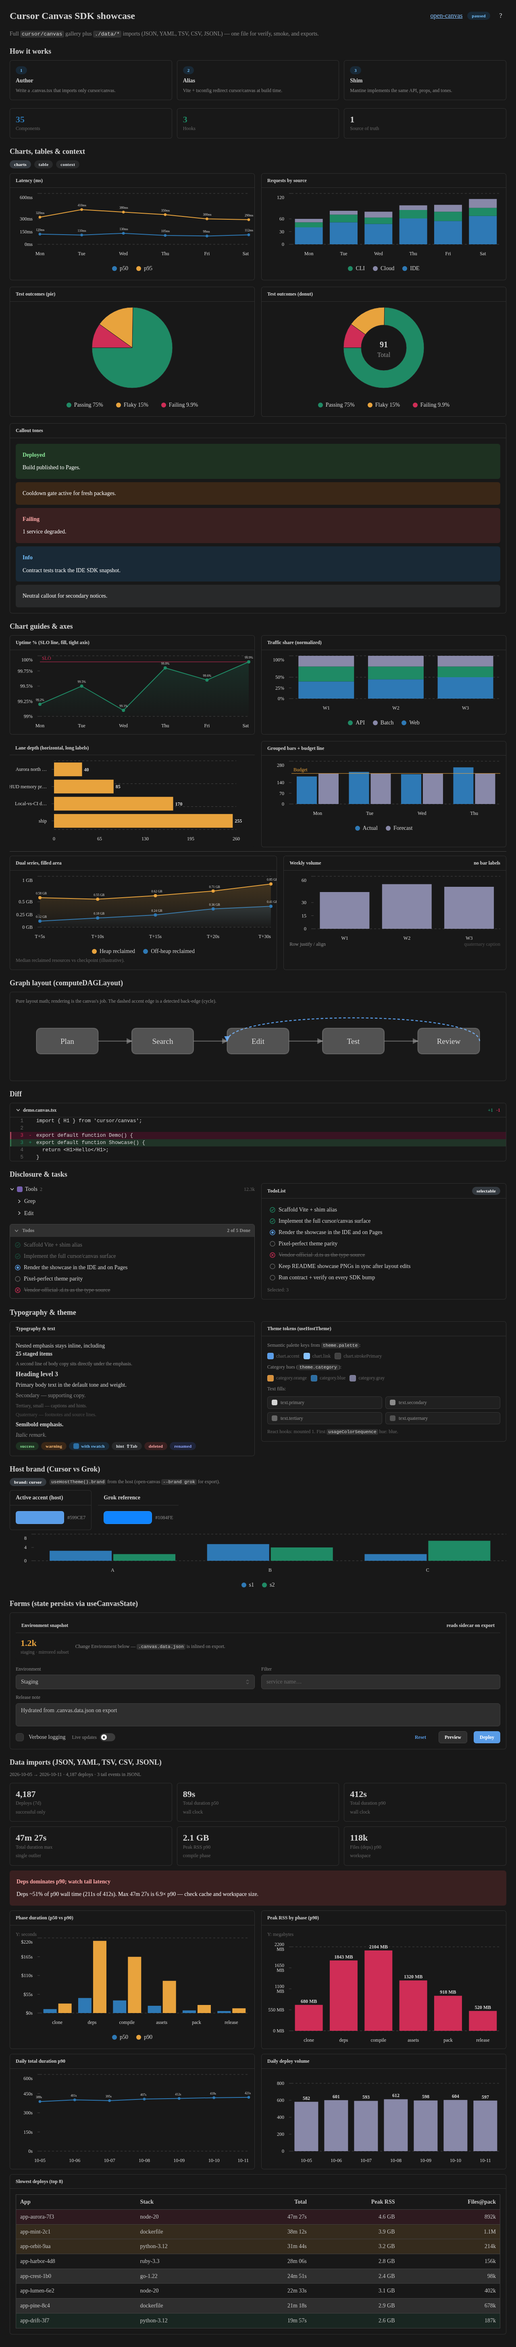
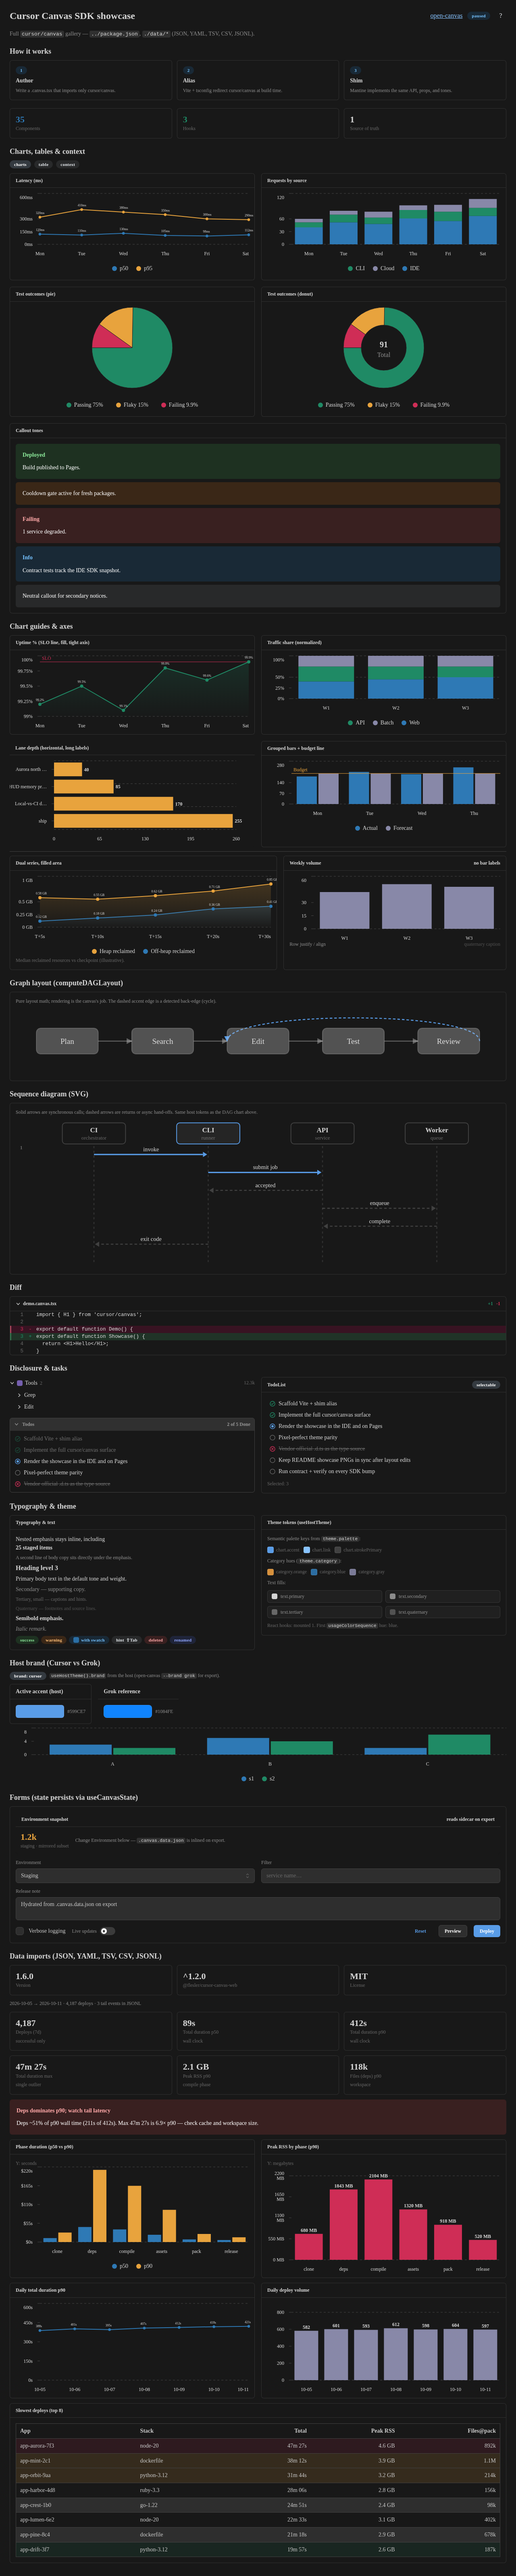
Sync demo showcase sequence diagram and refresh README screenshots.

diff --git a/.cursor/canvases/demo.canvas.tsx b/.cursor/canvases/demo.canvas.tsx
@@ -10,11 +10,19 @@ if (typeof localStorage !== 'undefined') {
 	}
 }
 
+const pkg = {"name":"@flesler/open-canvas","version":"1.6.0","description":"Agent-friendly canvas visuals (charts, tables, UI) from .canvas.tsx to HTML, PNG, PDF, JPG, or IDE-ready canvas","type":"module","license":"MIT","repository":"github:flesler/open-canvas","bin":{"open-canvas":"./bin/open-canvas.js"},"engines":{"node":">=22.12.0","npm":">=10.0.0"},"scripts":{"build":"npm run build:cli","build:cli":"tsc -b tsconfig.cli.json --clean && tsc -b tsconfig.cli.json && find dist -name '*.d.ts' -delete && rm -rf dist/scripts dist/canvas-sdk-hash.js","build:github-pages":"npm run build:cli && bash bin/build-github-pages.sh","prepublishOnly":"npm run build:cli","prepare":"[ \"$CI\" != \"true\" ] && [ -d node_modules/husky ] && husky || true","eslint":"eslint --cache --cache-strategy content","lint":"npm run eslint -- 'src/**/*.ts' 'src/**/*.tsx' 'example/**/*.canvas.tsx'","lint:fix":"npm run lint -- --fix","vitest":"VITE_CJS_IGNORE_WARNING=true vitest","test":"npm run test:types && npm run test:unit","test:smoke":"bin/smoke.sh","test:smoke:global":"bin/smoke.sh --global","test:smoke:both":"bin/smoke.sh --both","test:contract":"bin/contract.sh","test:verify-canvases":"npm run build:cli && bash bin/verify-canvases.sh","test:unit":"npm run vitest -- run","test:types:cli":"tsc -p tsconfig.cli.json --noEmit","test:types:app":"tsc -p tsconfig.json","test:types":"npm run test:types:cli && npm run test:types:app","test:unit:min":"MINIMAL=1 npm run test:unit","test:unit:verbose":"VERBOSE=1 npm run test:unit","lint:full":"bin/parallel-run.sh test:types:cli test:types:app lint:fix","lint:full:silent":"bin/parallel-run.sh --silent test:types:cli test:types:app lint:fix && echo LINT OK","example:screenshot":"npm run build:cli && node dist/cli.js generate example/demo.canvas.tsx --title 'Open Canvas — SDK Showcase' --formats png --theme light --width 1280 --height 900 && cp example/out/showcase.png docs/showcase-light.png && node dist/cli.js generate example/demo.canvas.tsx --title 'Open Canvas — SDK Showcase' --formats png --theme dark --width 1280 --height 900 && cp example/out/showcase.png docs/showcase-dark.png","example:cursor":"npm run build:cli && node dist/cli.js generate example/demo.canvas.tsx --formats cursor","test:pack":"bash bin/check-npm-pack.sh","ci:local":"npm run build:cli && npm run lint:full && npm test && npm run test:pack && npm run test:contract && npm run test:smoke","agent:stop":"npm run -s lint:full:silent","changelog":"auto-changelog --commit-limit 100 --hide-credit"},"dependencies":{"@flesler/cursor-canvas-web":"^1.2.0","@mantine/charts":"^8.3.18","@mantine/core":"^8.3.18","@types/react":"^19.3.0","@types/react-dom":"^19.3.0","@vitejs/plugin-react":"^5.2.0","commander":"^13.1.0","d3-dsv":"^3.0.1","playwright":"^1.64.0","react":"^19.3.0","react-dom":"^19.3.0","recharts":"^3.10.1","ts-morph":"^28.0.0","typescript":"^5.9.3","vite":"^7.3.7","vite-plugin-singlefile":"^2.3.3","yaml":"^2.9.1"},"devDependencies":{"@eslint/js":"^10.0.1","@stylistic/eslint-plugin":"^5.10.0","@types/d3-dsv":"^3.0.7","@types/node":"^22.10.0","@typescript-eslint/eslint-plugin":"^8.68.0","@typescript-eslint/parser":"^8.68.0","auto-changelog":"^2.6.0","eslint":"^10.9.1","eslint-plugin-import-newlines":"^2.0.0","eslint-plugin-unused-imports":"^4.4.1","husky":"^9.1.7","jiti":"^2.7.0","tsx":"^4.21.0","type-fest":"^5.4.5","vitest":"^4.1.11"},"files":["bin/open-canvas.js","dist/**/*.js","LICENSE","src/shell","src/types","src/vendor/skill-bundle/**"]}
 const daily = [{"date":"2026-10-05","deploys":"582","totalDurationP90Sec":"388"},{"date":"2026-10-06","deploys":"601","totalDurationP90Sec":"401"},{"date":"2026-10-07","deploys":"593","totalDurationP90Sec":"395"},{"date":"2026-10-08","deploys":"612","totalDurationP90Sec":"407"},{"date":"2026-10-09","deploys":"598","totalDurationP90Sec":"412"},{"date":"2026-10-10","deploys":"604","totalDurationP90Sec":"418"},{"date":"2026-10-11","deploys":"597","totalDurationP90Sec":"421"}]
 const deployEvents = [{"date":"2026-10-09","app":"app-aurora-7f3","durationSec":2847},{"date":"2026-10-10","app":"app-mint-2c1","durationSec":2292},{"date":"2026-10-11","app":"app-orbit-9aa","durationSec":1904}]
 const outlierRows = [{"app":"app-aurora-7f3","stack":"node-20","total":"47m 27s","peak_rss":"4.6 GB","files_pack":"892k"},{"app":"app-mint-2c1","stack":"dockerfile","total":"38m 12s","peak_rss":"3.9 GB","files_pack":"1.1M"},{"app":"app-orbit-9aa","stack":"python-3.12","total":"31m 44s","peak_rss":"3.2 GB","files_pack":"214k"},{"app":"app-harbor-4d8","stack":"ruby-3.3","total":"28m 06s","peak_rss":"2.8 GB","files_pack":"156k"},{"app":"app-crest-1b0","stack":"go-1.22","total":"24m 51s","peak_rss":"2.4 GB","files_pack":"98k"},{"app":"app-lumen-6e2","stack":"node-20","total":"22m 33s","peak_rss":"3.1 GB","files_pack":"402k"},{"app":"app-pine-8c4","stack":"dockerfile","total":"21m 18s","peak_rss":"2.9 GB","files_pack":"678k"},{"app":"app-drift-3f7","stack":"python-3.12","total":"19m 57s","peak_rss":"2.6 GB","files_pack":"187k"}]
 const phaseRssMb = {"rows":[{"phase":"clone","p90":680},{"phase":"deps","p90":1843},{"phase":"compile","p90":2104},{"phase":"assets","p90":1320},{"phase":"pack","p90":918},{"phase":"release","p90":520}]}
 const report = {"meta":{"title":"Build plane — 7-day OLAP","periodStart":"2026-10-05","periodEnd":"2026-10-11","deployCount":4187},"kpis":[{"label":"Deploys (7d)","value":"4,187","hint":"successful only"},{"label":"Total duration p50","value":"89s","hint":"wall clock"},{"label":"Total duration p90","value":"412s","hint":"wall clock"},{"label":"Total duration max","value":"47m 27s","hint":"single outlier"},{"label":"Peak RSS p90","value":"2.1 GB","hint":"compile phase"},{"label":"Files (deps) p90","value":"118k","hint":"workspace"}],"durationByPhase":{"rows":[{"phase":"clone","p50":11.6,"p90":27.8},{"phase":"deps","p50":44.2,"p90":211.4},{"phase":"compile","p50":37.1,"p90":164.7},{"phase":"assets","p50":21.3,"p90":94.2},{"phase":"pack","p50":7.8,"p90":23.6},{"phase":"release","p50":5.9,"p90":13.8}]}}
+type PhaseRssMb = {
+	rows: { phase: string; p90: number }[]
+}
+
+const repoUrl = `https://github.com/${pkg.repository.replace(/^github:/, '')}`
+const shimDep = pkg.dependencies['@flesler/cursor-canvas-web']
+
 /** Bar/line height in the charts grid; pie `size` matches for visual parity. */
 const SHOWCASE_CHART_HEIGHT = 200
 
@@ -315,6 +323,165 @@ function DagDiagram() {
 	)
 }
 
+const SEQ_ACTORS = [
+	{ label: 'CI', sub: 'orchestrator' },
+	{ label: 'CLI', sub: 'runner' },
+	{ label: 'API', sub: 'service' },
+	{ label: 'Worker', sub: 'queue' },
+]
+
+type SeqKind = 'call' | 'return' | 'async'
+
+const SEQ_MESSAGES: {
+	from: number;
+	to: number;
+	label: string;
+	kind: SeqKind;
+	step?: string
+}[] = [
+	{ from: 0, to: 1, label: 'invoke', kind: 'call', step: '1' },
+	{ from: 1, to: 2, label: 'submit job', kind: 'call' },
+	{ from: 2, to: 1, label: 'accepted', kind: 'return' },
+	{ from: 2, to: 3, label: 'enqueue', kind: 'async' },
+	{ from: 3, to: 2, label: 'complete', kind: 'async' },
+	{ from: 1, to: 0, label: 'exit code', kind: 'return' },
+]
+
+function SequenceDiagram() {
+	const theme = useHostTheme()
+	const boxStroke = theme.stroke.primary
+	const lifelineStroke = theme.stroke.secondary
+	const width = 920
+	const headerH = 52
+	const rowH = 34
+	const gap = 14
+	const labelRail = 40
+	const boxW = 120
+	const slot = (width - labelRail - 12) / SEQ_ACTORS.length
+	const centers = SEQ_ACTORS.map(
+		(_, index) => labelRail + slot * index + slot / 2,
+	)
+	const rows = SEQ_MESSAGES.map((message, index) => {
+		const previous = SEQ_MESSAGES[index - 1]
+		const extra = message.step && previous ? gap : 0
+		return { message, extra }
+	})
+	let cursor = headerH + 16
+	const placed = rows.map((row) => {
+		cursor += row.extra
+		const y = cursor
+		cursor += rowH
+		return { ...row, y }
+	})
+	const height = cursor + 12
+	const highlight = 1
+
+	return (
+		<svg
+			viewBox={`0 0 ${width} ${height}`}
+			width="100%"
+			role="img"
+			aria-label="Sequence diagram: CI invokes a CLI that talks to an API and async worker"
+			style={{ display: 'block' }}
+		>
+			{SEQ_ACTORS.map((actor, index) => {
+				const x = centers[index] - boxW / 2
+				const primary = index === highlight
+				return (
+					<g key={actor.label}>
+						<rect
+							x={x}
+							y={8}
+							width={boxW}
+							height={40}
+							rx={6}
+							fill={primary ? theme.fill.tertiary : theme.bg.elevated}
+							stroke={primary ? theme.accent.primary : boxStroke}
+							strokeWidth={1.5}
+						/>
+						<text
+							x={centers[index]}
+							y={26}
+							textAnchor="middle"
+							fill={theme.text.primary}
+							fontSize={13}
+							fontWeight={600}
+						>
+							{actor.label}
+						</text>
+						<text
+							x={centers[index]}
+							y={40}
+							textAnchor="middle"
+							fill={theme.text.tertiary}
+							fontSize={10}
+						>
+							{actor.sub}
+						</text>
+						<line
+							x1={centers[index]}
+							y1={52}
+							x2={centers[index]}
+							y2={height - 8}
+							stroke={lifelineStroke}
+							strokeWidth={2}
+							strokeDasharray="4 5"
+						/>
+					</g>
+				)
+			})}
+			{placed.map(({ message, y }) => {
+				const x1 = centers[message.from]
+				const x2 = centers[message.to]
+				const dir = x2 >= x1 ? 1 : -1
+				const dashed = message.kind !== 'call'
+				const color = dashed ? theme.stroke.primary : theme.accent.primary
+				const lineWidth = dashed ? 2 : 2.5
+				const mid = (x1 + x2) / 2
+				const head = 8
+				const tip = x2 - dir * 2
+				return (
+					<g key={`${message.label}-${y}`}>
+						{message.step && (
+							<text
+								x={8}
+								y={y - 10}
+								fill={theme.text.tertiary}
+								fontSize={10}
+								fontWeight={600}
+							>
+								{message.step}
+							</text>
+						)}
+						<line
+							x1={x1}
+							y1={y}
+							x2={tip - dir * head}
+							y2={y}
+							stroke={color}
+							strokeWidth={lineWidth}
+							strokeDasharray={dashed ? '5 4' : undefined}
+						/>
+						<polygon
+							points={`${tip},${y} ${tip - dir * head},${y - 5} ${tip - dir * head},${y + 5}`}
+							fill={color}
+						/>
+						<text
+							x={mid}
+							y={y - 6}
+							textAnchor="middle"
+							fill={theme.text.primary}
+							fontSize={11}
+						>
+							{message.label}
+						</text>
+					</g>
+				)
+			})}
+		</svg>
+	)
+}
+
 /* --------------------------------------------------------------------- main */
 
 export default function ShowcaseCanvas() {
@@ -371,8 +538,7 @@ export default function ShowcaseCanvas() {
 			}),
 		[],
 	)
-	const rssRows =
-		(phaseRssMb as { rows?: Array<{ phase: string; p90: number }> }).rows ?? []
+	const rssRows = (phaseRssMb as PhaseRssMb).rows
 	const phases = durationByPhase.rows.map(r => r.phase)
 	const durationSeries: ChartSeries[] = [
 		{ name: 'p50', data: durationByPhase.rows.map(r => r.p50), tone: 'info' },
@@ -390,7 +556,7 @@ export default function ShowcaseCanvas() {
 			<Row gap={12} align="center">
 				<H1>Cursor Canvas SDK showcase</H1>
 				<Spacer />
-				<Link href="https://github.com/flesler/open-canvas">open-canvas</Link>
+				<Link href={repoUrl}>open-canvas</Link>
 				<Pill tone="info" active={live}>
 					{live ? 'live' : 'paused'}
 				</Pill>
@@ -408,9 +574,8 @@ export default function ShowcaseCanvas() {
 			</Row>
 
 			<Text tone="secondary">
-				Full <Code>cursor/canvas</Code> gallery plus <Code>./data/*</Code>{' '}
-				imports (JSON, YAML, TSV, CSV, JSONL) — one file for verify, smoke, and
-				exports.
+				Full <Code>cursor/canvas</Code> gallery — <Code>../package.json</Code>,{' '}
+				<Code>./data/*</Code> (JSON, YAML, TSV, CSV, JSONL).
 			</Text>
 
 			{/* How it works (stepped explanation, not a callout) -------------- */}
@@ -741,6 +906,20 @@ export default function ShowcaseCanvas() {
 								accent edge is a detected back-edge (cycle).
 							</Text>
 							<DagDiagram />
+						</Stack>
+					</CardBody>
+				</Card>
+			</Section>
+
+			<Section title="Sequence diagram (SVG)">
+				<Card>
+					<CardBody>
+						<Stack gap={8}>
+							<Text size="small" tone="secondary">
+								Solid arrows are synchronous calls; dashed arrows are returns or
+								async hand-offs. Same host tokens as the DAG chart above.
+							</Text>
+							<SequenceDiagram />
 						</Stack>
 					</CardBody>
 				</Card>
@@ -1123,6 +1302,23 @@ export default function ShowcaseCanvas() {
 
 			<Section title="Data imports (JSON, YAML, TSV, CSV, JSONL)">
 				<Stack gap={12}>
+					<Grid columns={3} gap={12}>
+						<Card>
+							<CardBody>
+								<Stat value={pkg.version} label="Version" />
+							</CardBody>
+						</Card>
+						<Card>
+							<CardBody>
+								<Stat value={shimDep} label="@flesler/cursor-canvas-web" />
+							</CardBody>
+						</Card>
+						<Card>
+							<CardBody>
+								<Stat value={pkg.license} label="License" />
+							</CardBody>
+						</Card>
+					</Grid>
 					<Text size="small" tone="secondary">
 						{meta.periodStart} → {meta.periodEnd} ·{' '}
 						{meta.deployCount.toLocaleString()} deploys · {deployEvents.length}{' '}
